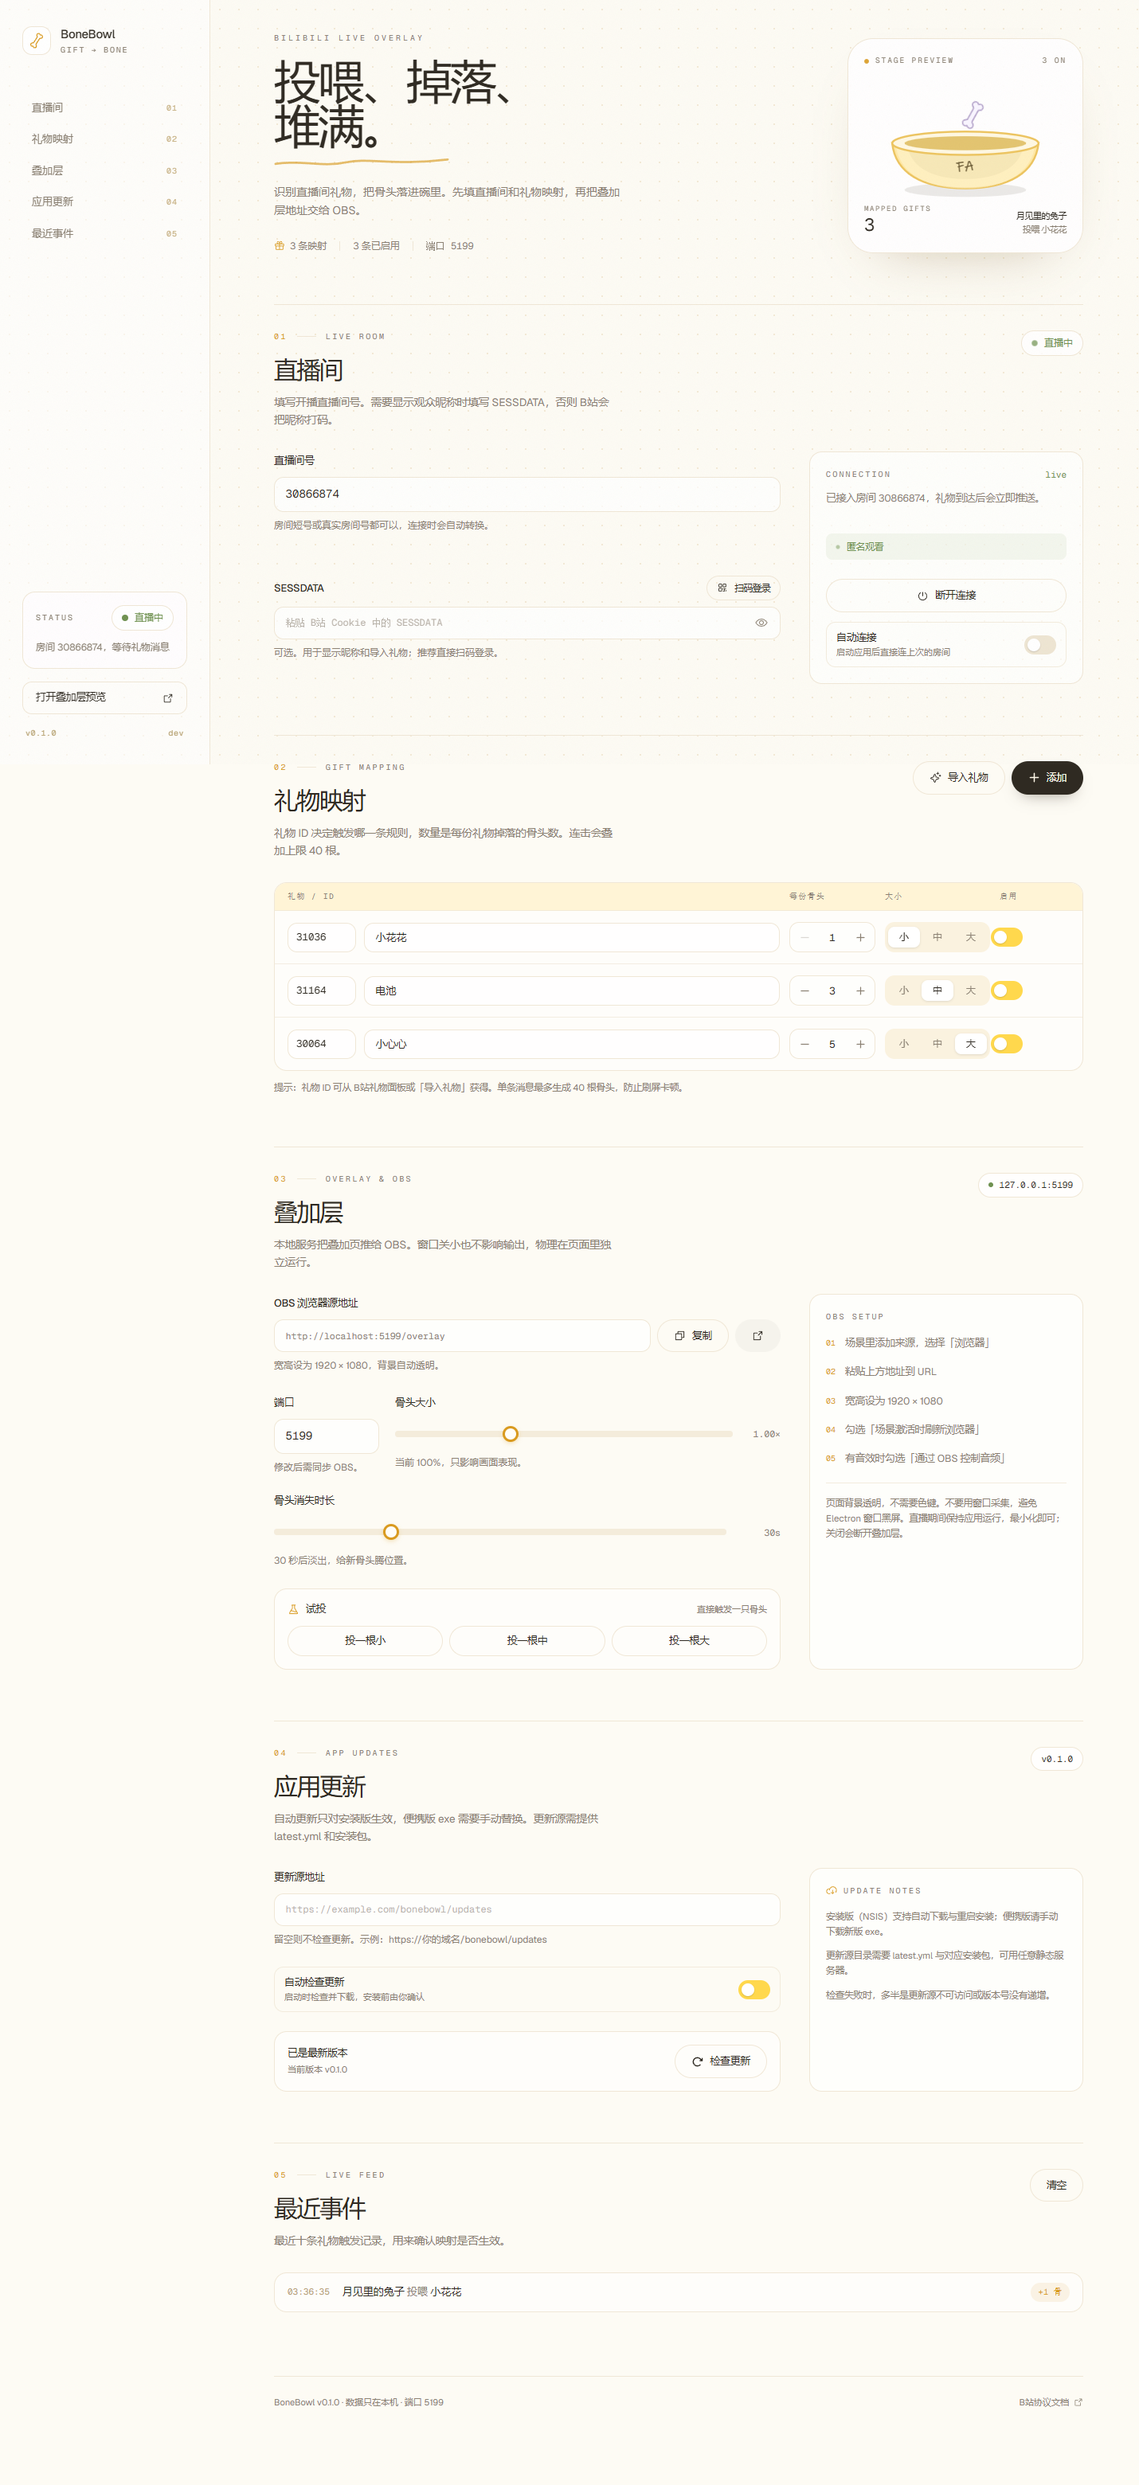
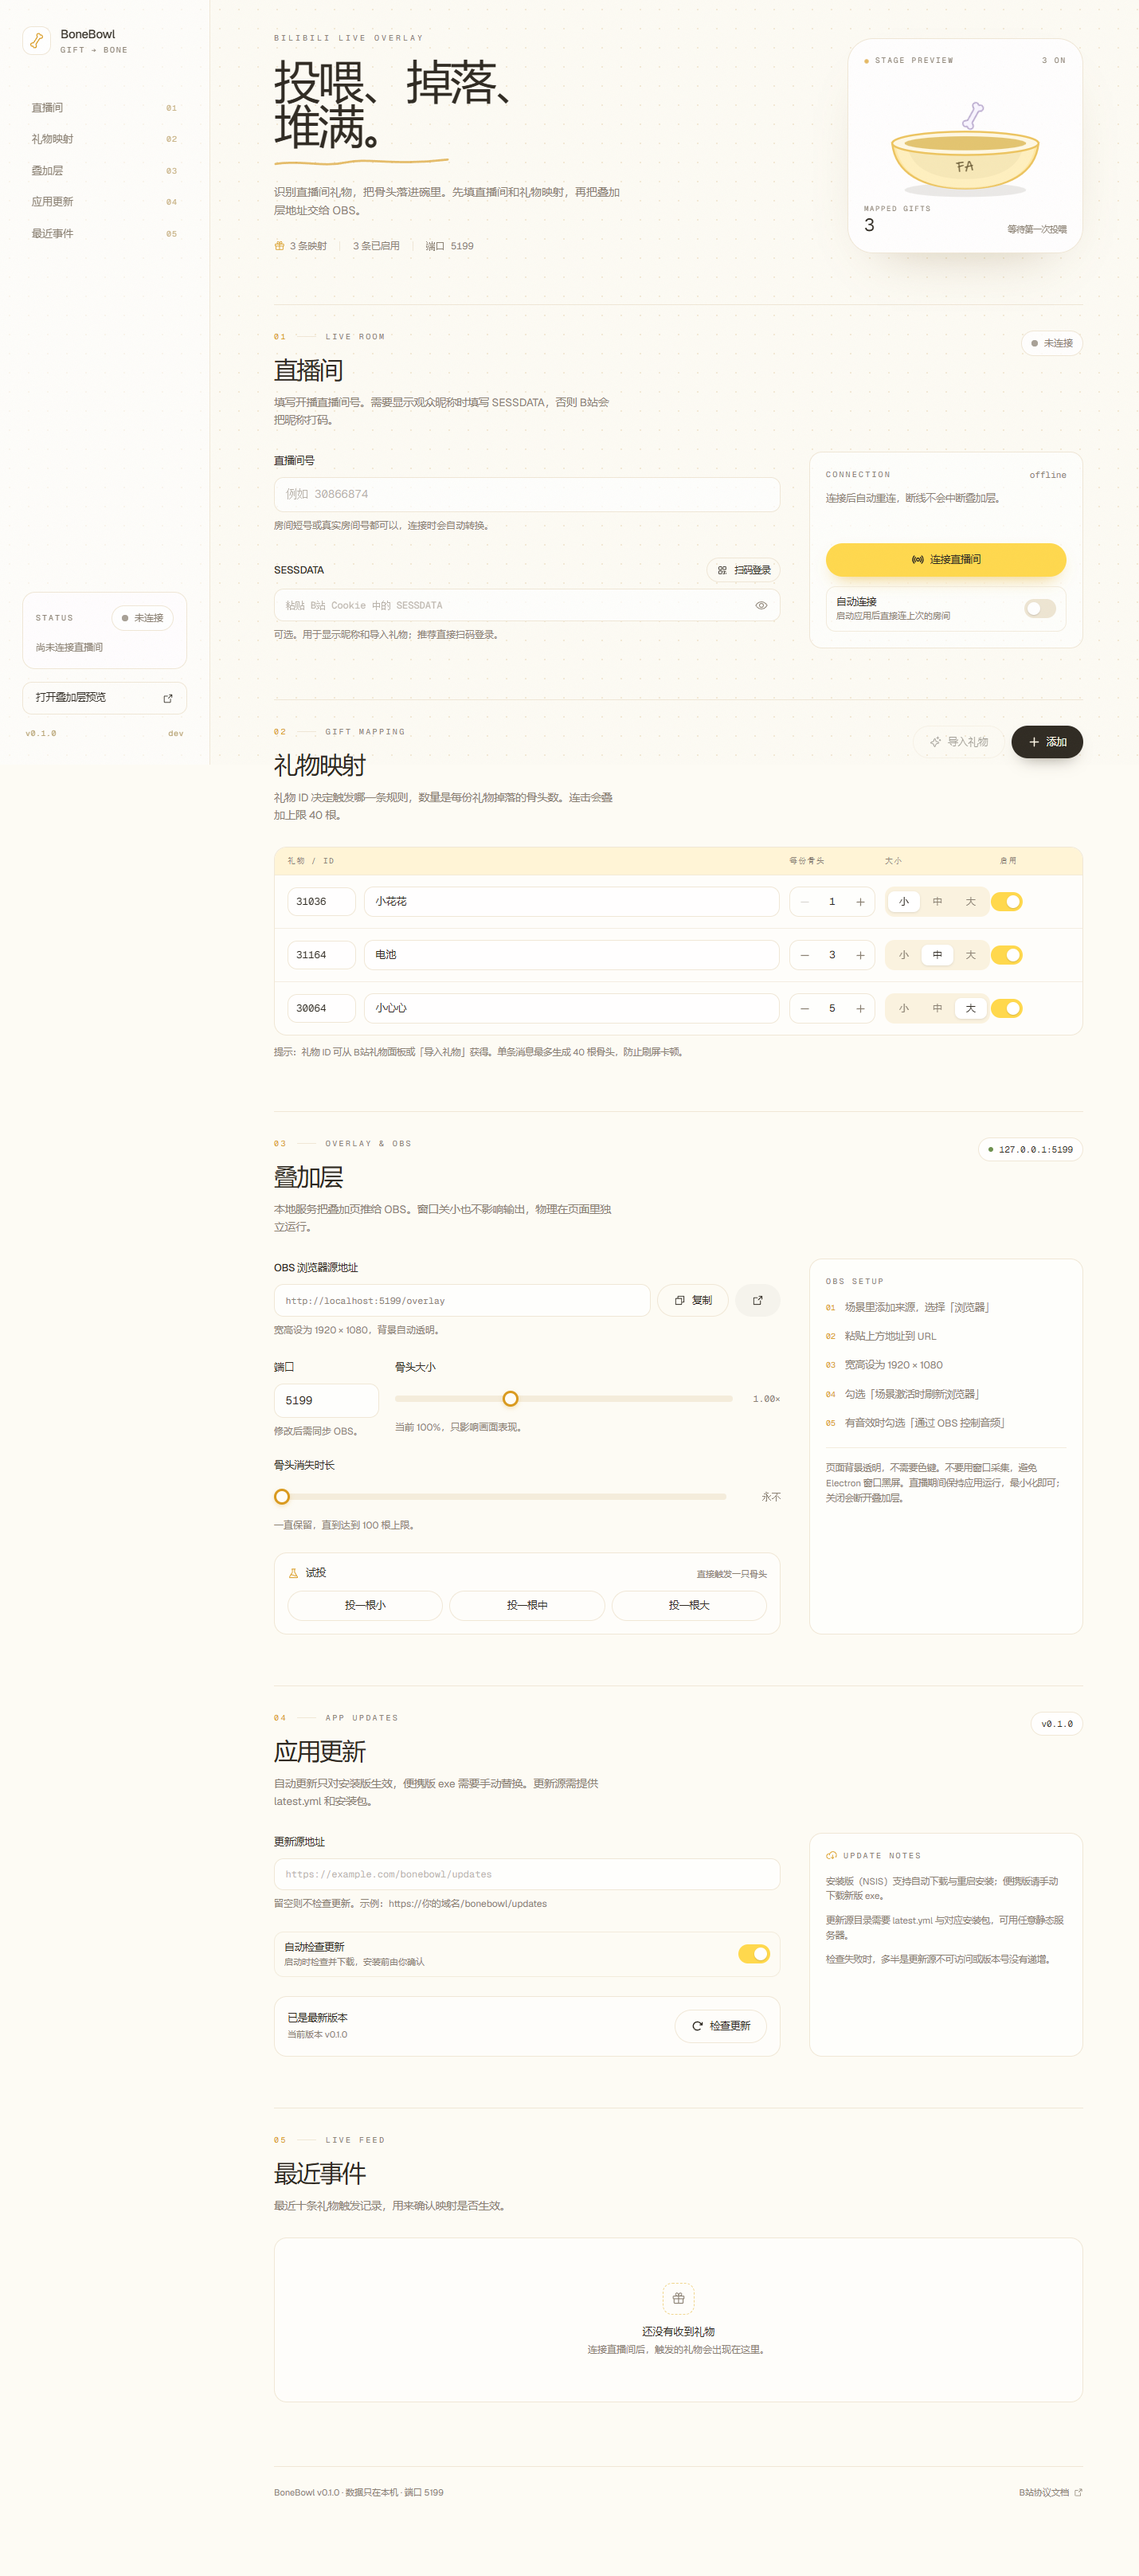
chore: 预览数据默认不填直播间号
示例房间号现在只作为输入框占位符，模拟配置不再预填房间号。

diff --git a/src/renderer/src/lib/api.ts b/src/renderer/src/lib/api.ts
@@ -19,7 +19,7 @@ function clone<T>(value: T): T {
 
 let mockConfig: AppConfig = {
   ...clone(DEFAULT_CONFIG),
-  roomId: 30866874,
+  roomId: null,
   gifts: [
     { id: 'seed-bloom', giftId: 31036, name: '小花花', bones: 1, size: 'small', enabled: true },
     { id: 'seed-battery', giftId: 31164, name: '电池', bones: 3, size: 'medium', enabled: true },
@@ -96,7 +96,8 @@ const mockApi: BoneBowlAPI = {
     return clone(mockConfig)
   },
   connect: async (opts) => {
-    const roomId = opts?.roomId ?? mockConfig.roomId ?? 30866874
+    const roomId = opts?.roomId ?? mockConfig.roomId
+    if (!roomId) throw new Error('先填写直播间号')
     mockConfig.roomId = roomId
     emitStatus({ state: 'connecting', roomId })
     await delay(900)
